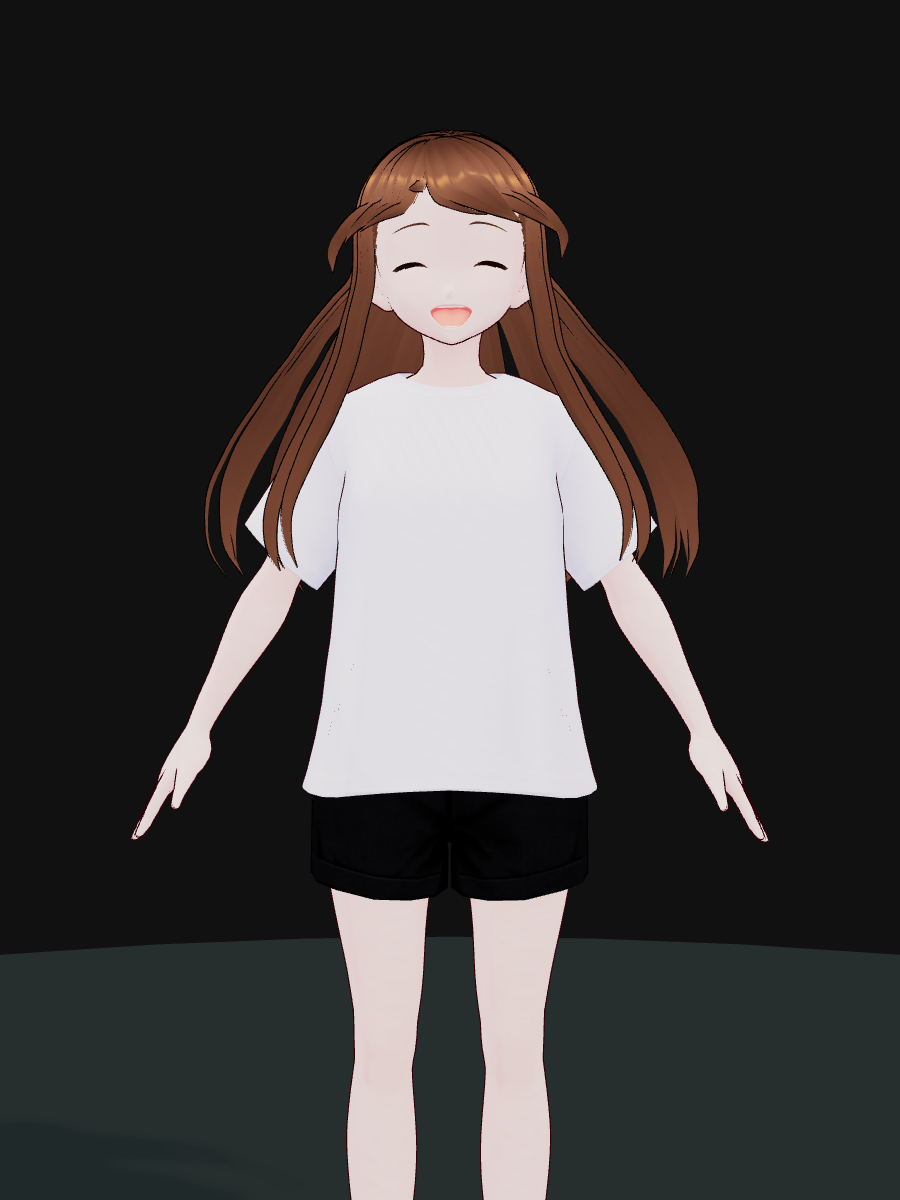
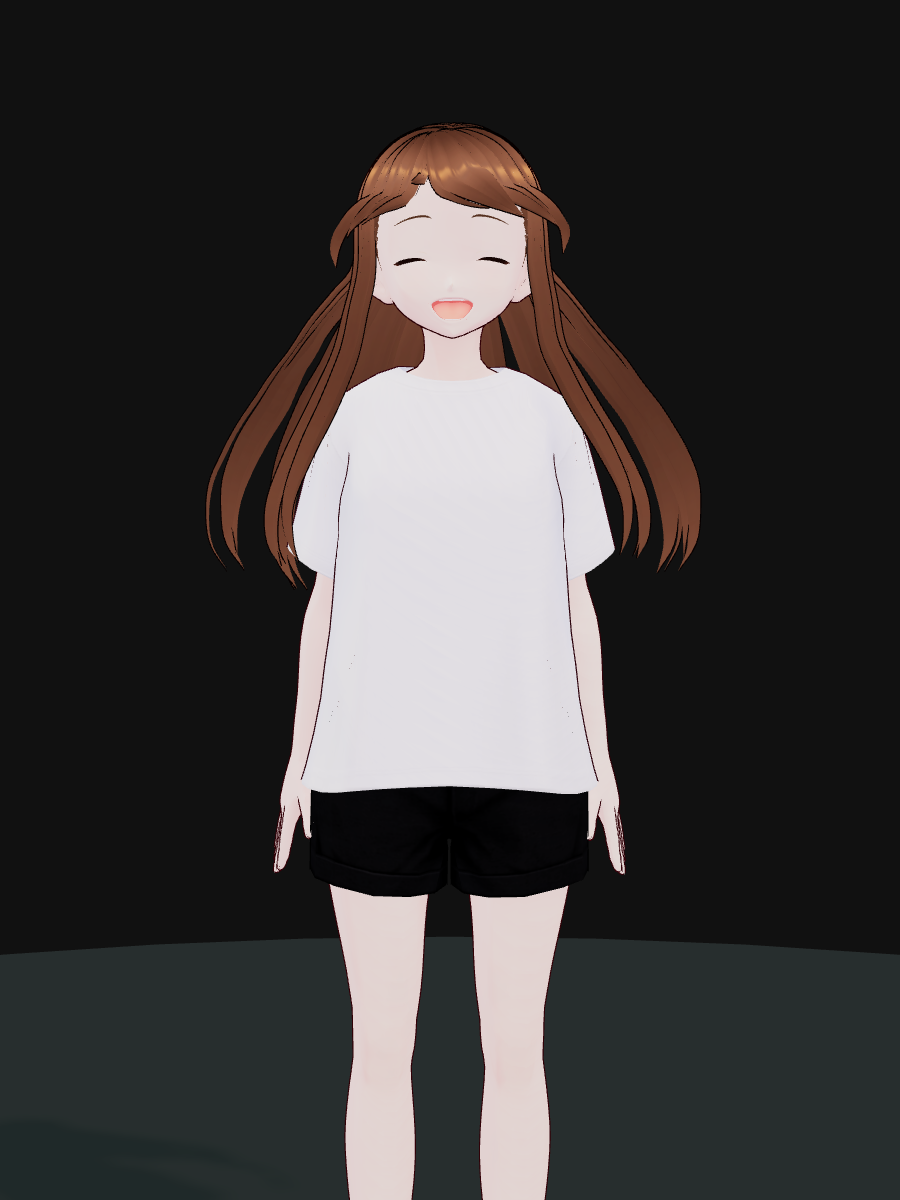
fix: Cantonese voice, language switch, mic, and VRM arm pose order
- Always emit lang=yue|en in companion URLs so dialect storage cannot stick on en
- Resolve language from URL first; add voice/lang buttons in composer (mobile)
- Apply body motion before vrm.humanoid.update for correct arm rest pose
- Keep mic button enabled with clearer permission errors; setLang on voice switch
- Tune arm rest to z ±1.42 with humanoid sync

diff --git a/prototypes/amoji-companion.html b/prototypes/amoji-companion.html
@@ -917,9 +917,16 @@
         .chat-column {
           padding-top: 4.8rem;
         }
-        .topbar .meta .pill:not(#status-pill) {
+        .topbar .meta .pill:not(#status-pill):not(#voice-pill):not(#lang-pill) {
           display: none;
         }
+      }
+
+      .icon-btn.lang-switch {
+        min-width: 2.4rem;
+        font-size: 0.78rem;
+        font-weight: 700;
+        letter-spacing: 0.02em;
       }
     </style>
     <script type="importmap">
@@ -933,7 +940,7 @@
     </script>
     <script>
       (function () {
-        window.__amojiBuild = "2026-09-14-v10-start-arms";
+        window.__amojiBuild = "2026-09-14-v11-lang-mic-arms";
         window.__amojiModuleBooted = false;
         window.__amojiStart = {
           tapped: false,
@@ -1267,6 +1274,22 @@
             >
               🎤
             </button>
+            <button
+              type="button"
+              class="icon-btn lang-switch"
+              id="btn-voice-switch"
+              title="Switch voice"
+            >
+              曉曼
+            </button>
+            <button
+              type="button"
+              class="icon-btn lang-switch"
+              id="btn-lang-switch"
+              title="Switch language"
+            >
+              粵
+            </button>
             <textarea
               id="input"
               rows="1"
@@ -1364,11 +1387,15 @@
       const btnSettings = document.getElementById("btn-settings");
       const btnSpeaker = document.getElementById("btn-speaker");
       const btnMic = document.getElementById("btn-mic");
+      const btnVoiceSwitch = document.getElementById("btn-voice-switch");
+      const btnLangSwitch = document.getElementById("btn-lang-switch");
 
       const params = new URLSearchParams(location.search);
       const dialect = resolveDialectPref();
-      const isEnglish = dialect.forceLanguage === "en";
-      const langCode = companionLangCode(isEnglish ? "en" : "yue");
+      const langCode = companionLangCode(
+        params.get("lang") || dialect.forceLanguage || "yue",
+      );
+      const isEnglish = langCode === "en";
       let voiceId = resolveVoiceId({
         lang: langCode,
         voiceParam: params.get("voice"),
@@ -1536,22 +1563,33 @@
       });
 
       const langPill = document.getElementById("lang-pill");
-      const updateLangPill = () => {
-        if (!langPill) return;
+      const languageSwitchHref = () => {
         const targetLang = isEnglish ? "yue" : "en";
         const targetVoice = defaultVoiceForLang(targetLang, voiceId);
-        langPill.textContent = isEnglish ? "EN" : "粵";
-        langPill.href = buildCompanionHref({
+        return buildCompanionHref({
           basePath: location.pathname,
           lang: targetLang,
           voiceId: targetVoice,
           extra: liteMode ? { lite: "1" } : undefined,
         });
-        langPill.title = isEnglish
+      };
+
+      const updateLangPill = () => {
+        const href = languageSwitchHref();
+        const switchTitle = isEnglish
           ? "Switch to Cantonese (粵語)"
           : "Switch to English";
+        if (langPill) {
+          langPill.textContent = isEnglish ? "EN" : "粵";
+          langPill.href = href;
+          langPill.title = switchTitle;
+        }
+        if (btnLangSwitch) {
+          btnLangSwitch.textContent = isEnglish ? "EN" : "粵";
+          btnLangSwitch.title = switchTitle;
+        }
       };
-      updateLangPill();
+
       const liteLink = document.getElementById("lite-link");
       if (liteLink) {
         liteLink.href = buildCompanionHref({
@@ -1589,7 +1627,13 @@
           ? "Tap to switch voice"
           : "按一下切換語音";
       };
-      setVoicePill(voiceShortLabel(voiceId, langCode, isEnglish));
+      /** @type {(nextVoiceId: string) => void} */
+      let applyVoiceSelection = (nextVoiceId) => {
+        voiceId = nextVoiceId;
+        persistVoiceId(voiceId);
+        syncVoiceToUrl(voiceId);
+      };
+
       const status = createCompanionStatus({
         onState: (s) => {
           statusPill.className = `pill status-${s}`;
@@ -1735,6 +1779,24 @@
           syncMicBtn();
         },
       });
+
+      applyVoiceSelection = (nextVoiceId) => {
+        voiceId = nextVoiceId;
+        persistVoiceId(voiceId);
+        syncVoiceToUrl(voiceId);
+        const preset = voicePresetById(voiceId);
+        voice.setCloudVoice(preset);
+        const label = voiceShortLabel(voiceId, langCode, isEnglish);
+        setVoicePill(label);
+        if (btnVoiceSwitch) {
+          btnVoiceSwitch.textContent = label;
+          btnVoiceSwitch.title = isEnglish
+            ? "Tap to switch voice"
+            : "按一下切換語音";
+        }
+      };
+      applyVoiceSelection(voiceId);
+      updateLangPill();
 
       handleCharacterTap = () => {
         const now = Date.now();
@@ -2009,7 +2071,6 @@
         void startSession();
       }
 
-      btnMic.disabled = !voice.supportsMic;
       syncSpeakerBtn();
       syncMicBtn();
 
@@ -2121,19 +2182,29 @@
       });
       }
 
-      voicePill.addEventListener("click", () => {
-        voiceId = nextVoiceId(voiceId, langCode);
-        persistVoiceId(voiceId);
-        syncVoiceToUrl(voiceId);
+      const cycleVoice = () => {
+        const nextId = nextVoiceId(voiceId, langCode);
+        applyVoiceSelection(nextId);
         updateLangPill();
-        voice.setCloudVoice(voicePresetById(voiceId));
-        const label = voiceShortLabel(voiceId, langCode, isEnglish);
-        setVoicePill(label);
         addBubble(
           "system",
-          isEnglish ? `Voice: ${label}` : `語音：${label}`,
+          isEnglish
+            ? `Voice: ${voiceShortLabel(nextId, langCode, true)}`
+            : `語音：${voiceShortLabel(nextId, langCode, false)}`,
         );
+      };
+
+      voicePill.addEventListener("click", cycleVoice);
+      btnVoiceSwitch?.addEventListener("click", cycleVoice);
+
+      const switchLanguage = () => {
+        location.href = languageSwitchHref();
+      };
+      langPill?.addEventListener("click", (ev) => {
+        ev.preventDefault();
+        switchLanguage();
       });
+      btnLangSwitch?.addEventListener("click", switchLanguage);
 
       btnSpeaker.addEventListener("click", () => {
         unlockAudioSync();
@@ -2143,18 +2214,32 @@
       });
 
       btnMic.addEventListener("click", async () => {
+        unlockAudioSync();
         if (!voice.supportsMic) {
-          addBubble("system", formatMicError("unsupported"));
+          addBubble(
+            "system",
+            isEnglish
+              ? formatMicError("unsupported")
+              : "此瀏覽器唔支援麥克風 — 請用 Chrome/Edge，或打字傾偈。",
+          );
           return;
         }
         const turningOn = !voice.micOn;
         if (turningOn) {
-          unlockAudioSync();
           if (!sessionStarted) startSession();
           micQueue.length = 0;
+          await voice.primeMicPermission();
           const micOk = await voice.startMic();
           syncMicBtn();
-          if (!micOk) return;
+          if (!micOk) {
+            addBubble(
+              "system",
+              isEnglish
+                ? "Mic blocked — allow microphone in browser settings, then tap 🎤 again."
+                : "麥克風被封鎖 — 請在瀏覽器設定允許麥克風，再按 🎤。",
+            );
+            return;
+          }
           addBubble(
             "system",
             "Mic on · speak, pause, she replies. Tap 🎤 to stop.",

diff --git a/amoji-engine/engine/companion/companionMicCapture.js b/amoji-engine/engine/companion/companionMicCapture.js
@@ -355,6 +355,12 @@ export function createMicCapture(opts = {}) {
     releaseRecordStream();
   };
 
+  const setLang = (next) => {
+    opts.lang = next || opts.lang || "zh-HK";
+    if (recognition) recognition.lang = opts.lang;
+    return opts.lang;
+  };
+
   const primePermission = async () => {
     if (permissionPrimed) return true;
     const perm = await requestMicPermission();
@@ -417,12 +423,17 @@ export function createMicCapture(opts = {}) {
       );
     },
     get supportsMic() {
-      return Boolean(Rec) || canCloudStt;
+      return (
+        Boolean(Rec) ||
+        canCloudStt ||
+        Boolean(globalThis.navigator?.mediaDevices?.getUserMedia)
+      );
     },
     get usesCloudStt() {
       return !Rec && canCloudStt;
     },
     primePermission,
+    setLang,
     start,
     stop,
     pause,

diff --git a/amoji-engine/engine/companion/vrmAvatar.js b/amoji-engine/engine/companion/vrmAvatar.js
@@ -165,6 +165,7 @@ export async function createVrmAvatar(opts) {
   const bodyMotion = createCompanionBodyMotion(vrm.humanoid);
   for (let i = 0; i < 4; i += 1) {
     bodyMotion.update(1 / 60);
+    vrm.humanoid?.update?.(0);
     vrm.update(1 / 60);
   }
 
@@ -302,8 +303,9 @@ export async function createVrmAvatar(opts) {
   const frame = () => {
     const dt = clock.getDelta();
     const now = performance.now();
-    vrm.update(dt);
     bodyMotion.update(dt, { talking, now });
+    vrm.humanoid?.update?.(0);
+    vrm.update(dt);
 
     controls.update();
 
@@ -338,6 +340,7 @@ export async function createVrmAvatar(opts) {
   resize();
   setEmotion("neutral");
   bodyMotion.update(1 / 60);
+  vrm.humanoid?.update?.(0);
   vrm.update(1 / 60);
   renderer.render(scene, camera);
   raf = requestAnimationFrame(frame);

diff --git a/amoji-engine/engine/companion/companionVoice.js b/amoji-engine/engine/companion/companionVoice.js
@@ -612,10 +612,18 @@ export function createCompanionVoice(opts = {}) {
 
   const toggleMic = () => (micCapture.on ? stopMic() : startMic());
 
+  const setLang = (next) => {
+    const lang = String(next || opts.lang || "zh-HK");
+    opts.lang = lang;
+    micCapture.setLang?.(lang);
+    return lang;
+  };
+
   const setCloudVoice = (preset) => {
     if (!preset?.name) return voice;
     opts.cloudVoice = preset;
     voice = preset;
+    if (preset.lang) setLang(preset.lang);
     usingCloudTts = Boolean(opts.cloudTtsUrl);
     return voice;
   };
@@ -662,6 +670,7 @@ export function createCompanionVoice(opts = {}) {
     stopMic,
     toggleMic,
     setCloudVoice,
+    setLang,
   };
 }
 

diff --git a/amoji-engine/engine/companion/companionPoseLibrary.js b/amoji-engine/engine/companion/companionPoseLibrary.js
@@ -14,10 +14,10 @@ export const COMPANION_POSE_LIBRARY_SCHEMA = "amoji.companionPoseLibrary.v1";
  * (0,0,0) on upper arms is horizontal T-pose — not arms-at-sides.
  */
 export const VRM_ARM_REST_ROTATIONS = Object.freeze({
-  leftUpperArm: { x: 0.1, y: 0, z: -1.48 },
-  rightUpperArm: { x: 0.1, y: 0, z: 1.48 },
-  leftLowerArm: { x: 0.2, y: 0, z: 0.04 },
-  rightLowerArm: { x: 0.2, y: 0, z: -0.04 },
+  leftUpperArm: { x: 0.12, y: 0, z: -1.42 },
+  rightUpperArm: { x: 0.12, y: 0, z: 1.42 },
+  leftLowerArm: { x: 0.18, y: 0, z: 0.04 },
+  rightLowerArm: { x: 0.18, y: 0, z: -0.04 },
 });
 
 /** Natural standing — arms relaxed at sides (A-pose VRM). */

diff --git a/amoji-engine/engine/companion/companionVoiceCatalog.js b/amoji-engine/engine/companion/companionVoiceCatalog.js
@@ -177,7 +177,7 @@ export function defaultVoiceForLang(langCode, currentVoiceId) {
 export function buildCompanionHref(opts = {}) {
   const q = new URLSearchParams();
   const langCode = companionLangCode(opts.lang);
-  if (langCode === "en") q.set("lang", "en");
+  q.set("lang", langCode === "en" ? "en" : "yue");
   if (opts.voiceId) q.set("voice", opts.voiceId);
   if (opts.extra) {
     for (const [key, value] of Object.entries(opts.extra)) {

diff --git a/amoji-engine/tests/companionVoiceCatalog.test.js b/amoji-engine/tests/companionVoiceCatalog.test.js
@@ -34,6 +34,13 @@ describe("companionVoiceCatalog", () => {
         voiceId: "en-US-AriaNeural",
       }),
     ).toBe("/companion-full?lang=en&voice=en-US-AriaNeural");
+    expect(
+      buildCompanionHref({
+        basePath: "/companion-full",
+        lang: "yue",
+        voiceId: "zh-HK-HiuMaanNeural",
+      }),
+    ).toBe("/companion-full?lang=yue&voice=zh-HK-HiuMaanNeural");
   });
 
   it("labels cloud voices", () => {

diff --git a/prototypes/amoji-lite.html b/prototypes/amoji-lite.html
@@ -276,7 +276,7 @@
       } from "/amoji-engine/engine/companion/companionVoiceCatalog.js";
 
       (function () {
-        window.__amojiBuild = "lite-v5";
+        window.__amojiBuild = "lite-v6";
         window.__amojiLite = { ready: true, ttsCalls: 0, chatCalls: 0 };
 
         var params = new URLSearchParams(location.search);

diff --git a/amoji-engine/tests/companionBodyMotion.test.js b/amoji-engine/tests/companionBodyMotion.test.js
@@ -19,7 +19,9 @@ function mockHumanoid() {
   }
   return {
     getNormalizedBoneNode: (name) => bones.get(name) || null,
+    getRawBoneNode: (name) => bones.get(name) || null,
     resetNormalizedPose: () => {},
+    update: () => {},
     bones,
   };
 }
